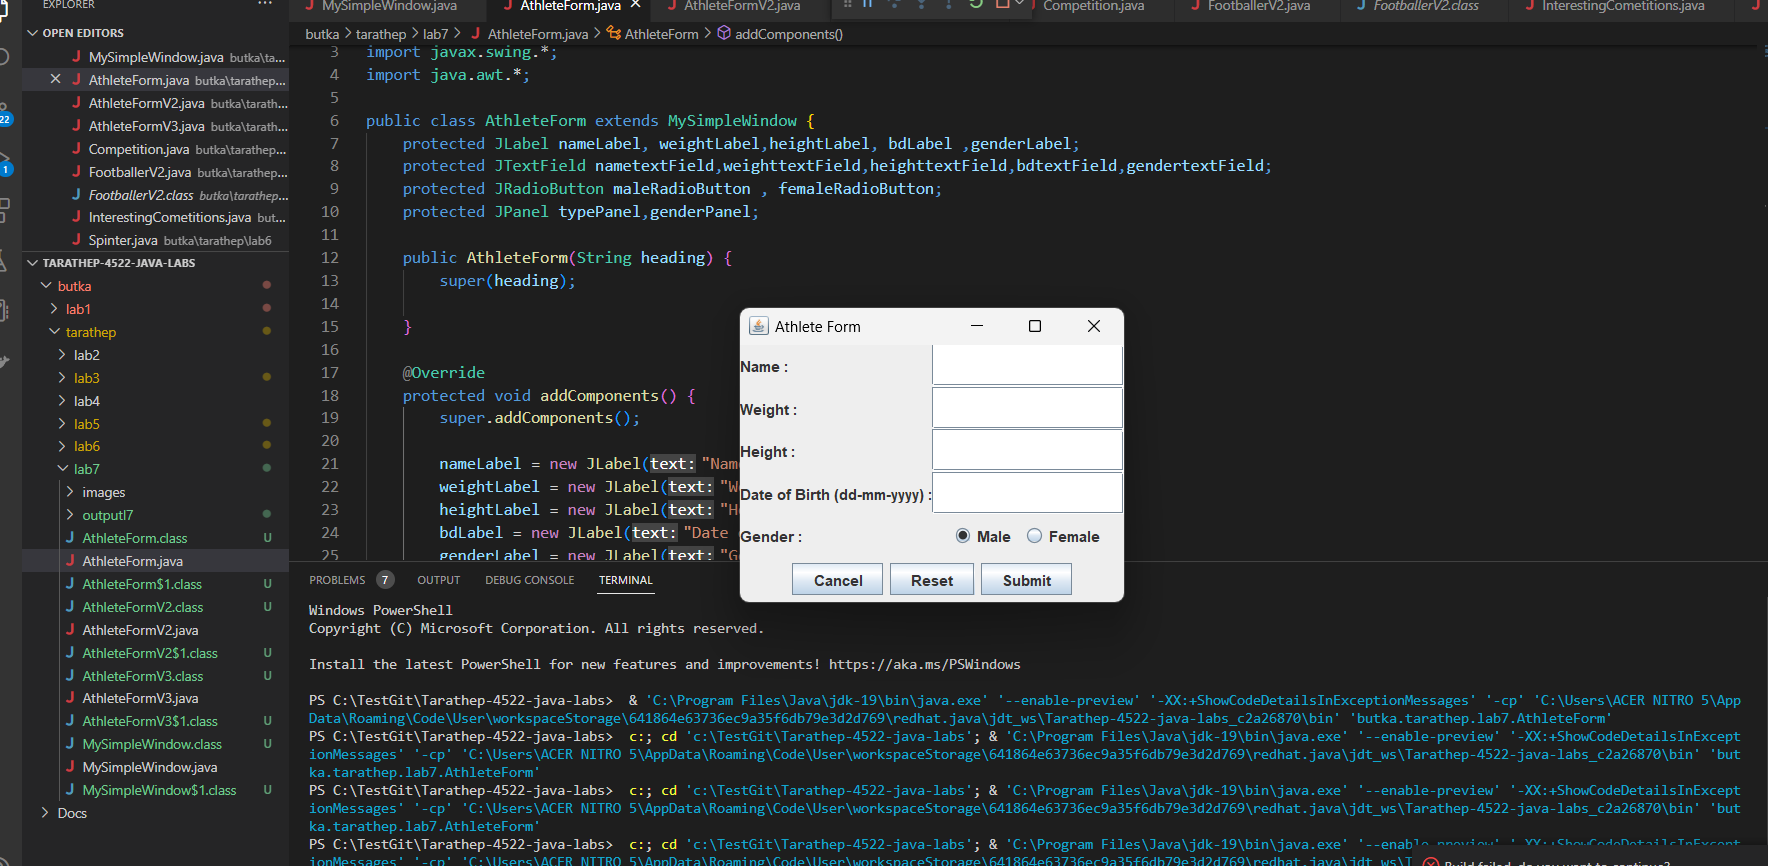
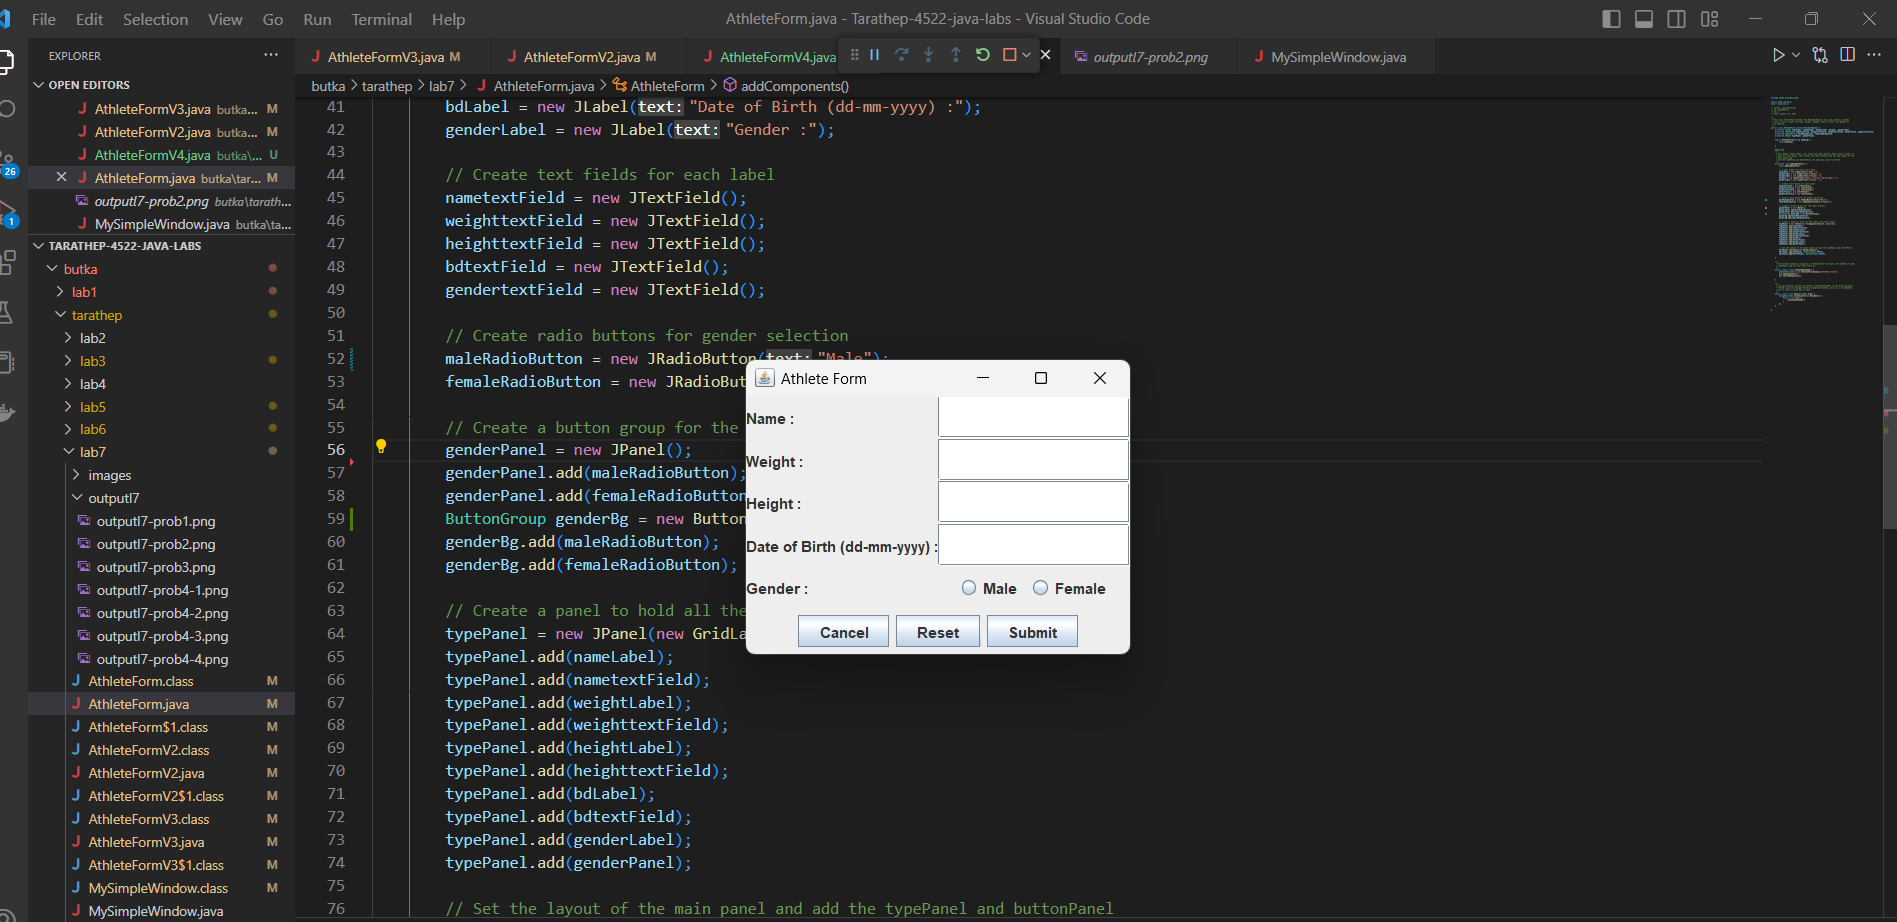
lab7

diff --git a/butka/tarathep/lab7/AthleteFormV2.java b/butka/tarathep/lab7/AthleteFormV2.java
@@ -21,7 +21,7 @@ public class AthleteFormV2 extends AthleteForm {
     protected JList<String> spoList;
     protected String[] sport = { "Badminton", "Boxing", "Football", "Running" },
             nationality = { "American", "Chinese", "Indonesian", "Japanese", "Thai", "Vietnamese" };
-    protected JPanel centerPanel, bioPanel, sportPanel, nationPanel, spnabioPanel;
+    protected JPanel centerPanel, bioPanel, sportPanel, nationPanel, spnabioPanel, spnaPanel;
     protected JScrollPane scrollPane;
 
     public AthleteFormV2(String heading) {
@@ -37,7 +37,7 @@ public class AthleteFormV2 extends AthleteForm {
      * add center panel to main panel and add main panel to JFrame.
      */
     @Override
-    public void addComponents() {
+    protected void addComponents() {
         super.addComponents();
 
         // Create labels for the nationality, sport, and bio.
@@ -68,10 +68,13 @@ public class AthleteFormV2 extends AthleteForm {
         scrollPane = new JScrollPane(bioTextArea, JScrollPane.VERTICAL_SCROLLBAR_AS_NEEDED,
                 JScrollPane.HORIZONTAL_SCROLLBAR_NEVER);
 
+        spnaPanel = new JPanel(new BorderLayout());
+        spnaPanel.add(nationPanel, BorderLayout.NORTH);
+        spnaPanel.add(sportPanel, BorderLayout.CENTER);
+
         // Create a panel to hold the nation panel, sport panel, and bio label.
         spnabioPanel = new JPanel(new BorderLayout());
-        spnabioPanel.add(nationPanel, BorderLayout.NORTH);
-        spnabioPanel.add(sportPanel, BorderLayout.CENTER);
+        spnabioPanel.add(spnaPanel, BorderLayout.CENTER);
         spnabioPanel.add(bioLabel, BorderLayout.SOUTH);
 
         // Create a panel to hold the spnabio panel and scroll pane.

diff --git a/butka/tarathep/lab7/AthleteFormV3.java b/butka/tarathep/lab7/AthleteFormV3.java
@@ -31,14 +31,14 @@ public class AthleteFormV3 extends AthleteFormV2 {
      * three items: "16", "20", and "24". Finally, the created menu bar is set as
      * the menu bar for a JFrame.
      */
-    public void addMenus() {
+    protected void addMenus() {
         menuBar = new JMenuBar();
         fileMenu = new JMenu("File");
-        ImageIcon newIcon = new ImageIcon(getClass().getResource("images/Newicon.png"));
+        ImageIcon newIcon = new ImageIcon(getClass().getResource("../lab7/images/Newicon.png"));
         newMI = new JMenuItem("New", newIcon);
-        ImageIcon openIcon = new ImageIcon(getClass().getResource("images/Openicon.png"));
+        ImageIcon openIcon = new ImageIcon(getClass().getResource("../lab7/images/Openicon.png"));
         openMI = new JMenuItem("Open", openIcon);
-        ImageIcon saveIcon = new ImageIcon(getClass().getResource("images/Saveicon.png"));
+        ImageIcon saveIcon = new ImageIcon(getClass().getResource("../lab7/images/Saveicon.png"));
         saveMI = new JMenuItem("Save", saveIcon);
         exitMI = new JMenuItem("Exit");
         configMenu = new JMenu("Config");
@@ -55,6 +55,7 @@ public class AthleteFormV3 extends AthleteFormV2 {
         fileMenu.add(newMI);
         fileMenu.add(openMI);
         fileMenu.add(saveMI);
+        fileMenu.addSeparator();
         fileMenu.add(exitMI);
         configMenu.add(colorMI);
         configMenu.add(sizeMI);

diff --git a/butka/tarathep/lab7/AthleteForm.java b/butka/tarathep/lab7/AthleteForm.java
@@ -49,14 +49,14 @@ public class AthleteForm extends MySimpleWindow {
         gendertextField = new JTextField();
 
         // Create radio buttons for gender selection
-        maleRadioButton = new JRadioButton("Male", true);
+        maleRadioButton = new JRadioButton("Male");
         femaleRadioButton = new JRadioButton("Female");
 
         // Create a button group for the radio buttons
         genderPanel = new JPanel();
-        ButtonGroup genderBg = new ButtonGroup();
         genderPanel.add(maleRadioButton);
         genderPanel.add(femaleRadioButton);
+        ButtonGroup genderBg = new ButtonGroup();
         genderBg.add(maleRadioButton);
         genderBg.add(femaleRadioButton);
 
